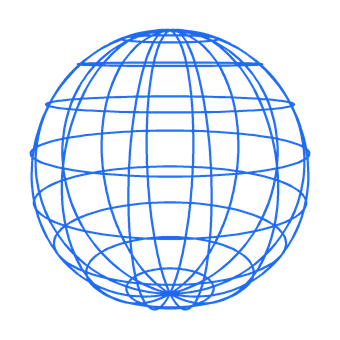
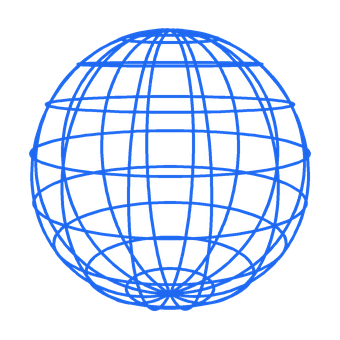
Bolder, faster globe; remove gradient dividers
- Thicken the wireframe lines (~0.9% of diameter) to match the site's
  bold globe; bump the static icon's lines to match
- Spin the globe ~2x faster via GLOBE_TURNS=2 (still an integer multiple
  of the 2*pi/14 symmetry, so the loop stays seamless and the clouds are
  unchanged)
- Remove the gradient dividers from the README and delete the divider
  asset + tools/make-divider.py

Changed region(s): [[0.0882, 0.0588, 0.9118, 0.9118]]

diff --git a/tools/make-globe-gif.py b/tools/make-globe-gif.py
@@ -44,8 +44,9 @@ TILT_X_DEG = 12.0        # slight forward tilt so it reads as a globe
 OUT = 340                # final GIF size (px, square)
 SS = 4                   # globe supersample factor
 FRAMES = 36              # frames across one shared loop period
+GLOBE_TURNS = 2          # symmetric 2*pi/14 rotations per loop (higher = faster spin)
 GLOBE_FILL = 0.82        # globe diameter as fraction of the card
-LINE_W = 1.7 * SS        # globe line width at supersample scale
+LINE_W = 2.9 * SS        # globe line width at supersample scale (bold, like the site)
 CORNER = 30              # rounded-card corner radius (px)
 SEED = 7                 # deterministic cloud layout
 
@@ -250,7 +251,7 @@ def main() -> None:
     for f in range(FRAMES):
         scene = sky.copy().convert("RGBA")
         paste_clouds(scene, puffs, pan=f / FRAMES * OUT, size=OUT)
-        globe = render_globe(lines, f / FRAMES * period, OUT * SS,
+        globe = render_globe(lines, f / FRAMES * period * GLOBE_TURNS, OUT * SS,
                              GLOBE_RGB, LINE_W, GLOBE_FILL).resize(
             (OUT, OUT), Image.LANCZOS)
         scene.alpha_composite(globe)
@@ -262,7 +263,7 @@ def main() -> None:
                    optimize=True)
 
     # static transparent wireframe for the website project-card icon
-    icon = render_globe(lines, 0.0, OUT * SS, (30, 104, 240), 2.2 * SS,
+    icon = render_globe(lines, 0.0, OUT * SS, (30, 104, 240), 2.9 * SS,
                         GLOBE_FILL).resize((OUT, OUT), Image.LANCZOS)
     png_path = os.path.join(out_dir, "globe.png")
     icon.save(png_path)

diff --git a/profile/README.md b/profile/README.md
@@ -3,8 +3,8 @@
   GitHub renders this file (.github/profile/README.md) as the org landing page.
   The header globe is generated by ../tools/make-globe-gif.py — a faithful
   offline port of the site's sky + clouds + WebGL wireframe globe, looped
-  seamlessly. Dividers come from ../tools/make-divider.py. Widgets are live:
-  shields.io, visitorbadge.io (unique visitors), and readme-typing-svg.
+  seamlessly. Widgets are live: shields.io, visitorbadge.io (unique
+  visitors), and readme-typing-svg.
 -->
 
 <a name="top"></a>
@@ -24,8 +24,6 @@
   &nbsp;
   <img src="https://api.visitorbadge.io/api/visitors?path=https%3A%2F%2Fgithub.com%2FWebWorldWide&countColor=%23ec5a2b&style=for-the-badge&label=PROFILE+VISITORS" alt="Unique profile visitors" />
 </p>
-
-<p align="center"><img src="assets/divider.png" width="70%" alt="" /></p>
 
 ## 🛰 &nbsp;Projects
 
@@ -76,8 +74,6 @@
   </tr>
 </table>
 
-<p align="center"><img src="assets/divider.png" width="70%" alt="" /></p>
-
 ## 🌍 &nbsp;Find us everywhere
 
 <p align="center">
@@ -90,8 +86,6 @@
   <a href="https://www.instagram.com/mywebworldwide"><img src="https://img.shields.io/badge/Instagram-E4405F?style=for-the-badge&logo=instagram&logoColor=white" alt="Instagram" /></a>
   <a href="https://www.threads.net/@mywebworldwide"><img src="https://img.shields.io/badge/Threads-000000?style=for-the-badge&logo=threads&logoColor=white" alt="Threads" /></a>
 </p>
-
-<p align="center"><img src="assets/divider.png" width="70%" alt="" /></p>
 
 <p align="center">
   <sub><em>My World on the Web</em> &nbsp;·&nbsp; © Web World Wide &nbsp;·&nbsp; <a href="#top">back to top ↑</a></sub>
